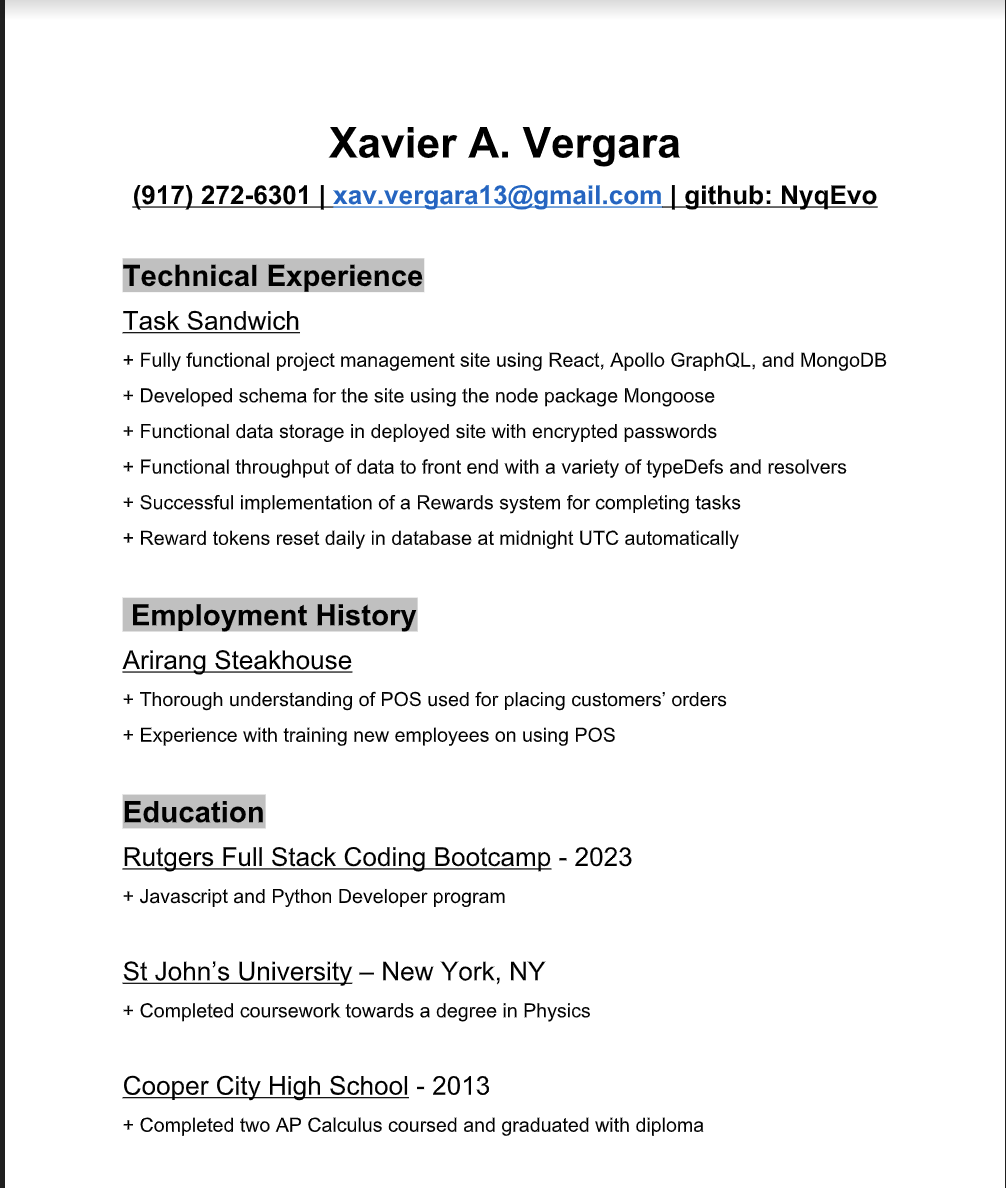
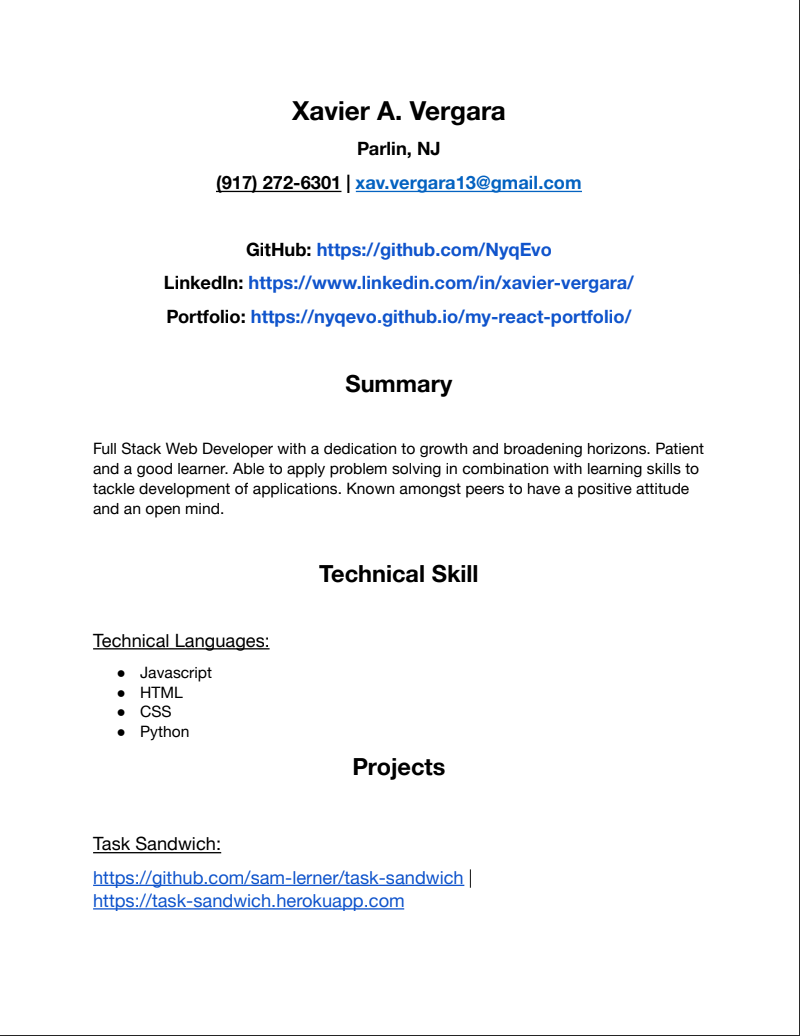
added new resume picture and download link

diff --git a/src/components/Resume.js b/src/components/Resume.js
@@ -6,7 +6,7 @@ function Resume() {
     return (
         <div className='resume-container'>
             <img src={resume} alt='picture of my resume' />
-            <a href='https://drive.google.com/file/d/1qyl8QqzuwrfDc6K_dY0h-RxETW3Kt6sJ/view?pli=1' target='_blank'><p>Click here to download my resume</p></a>
+            <a href='https://drive.google.com/file/d/1WckZekqr-0QOJRc2sdnagoAk_x2NhJN2/view?usp=sharing' target='_blank'><p>Click here to download my resume</p></a>
         </div>
     )
 }
